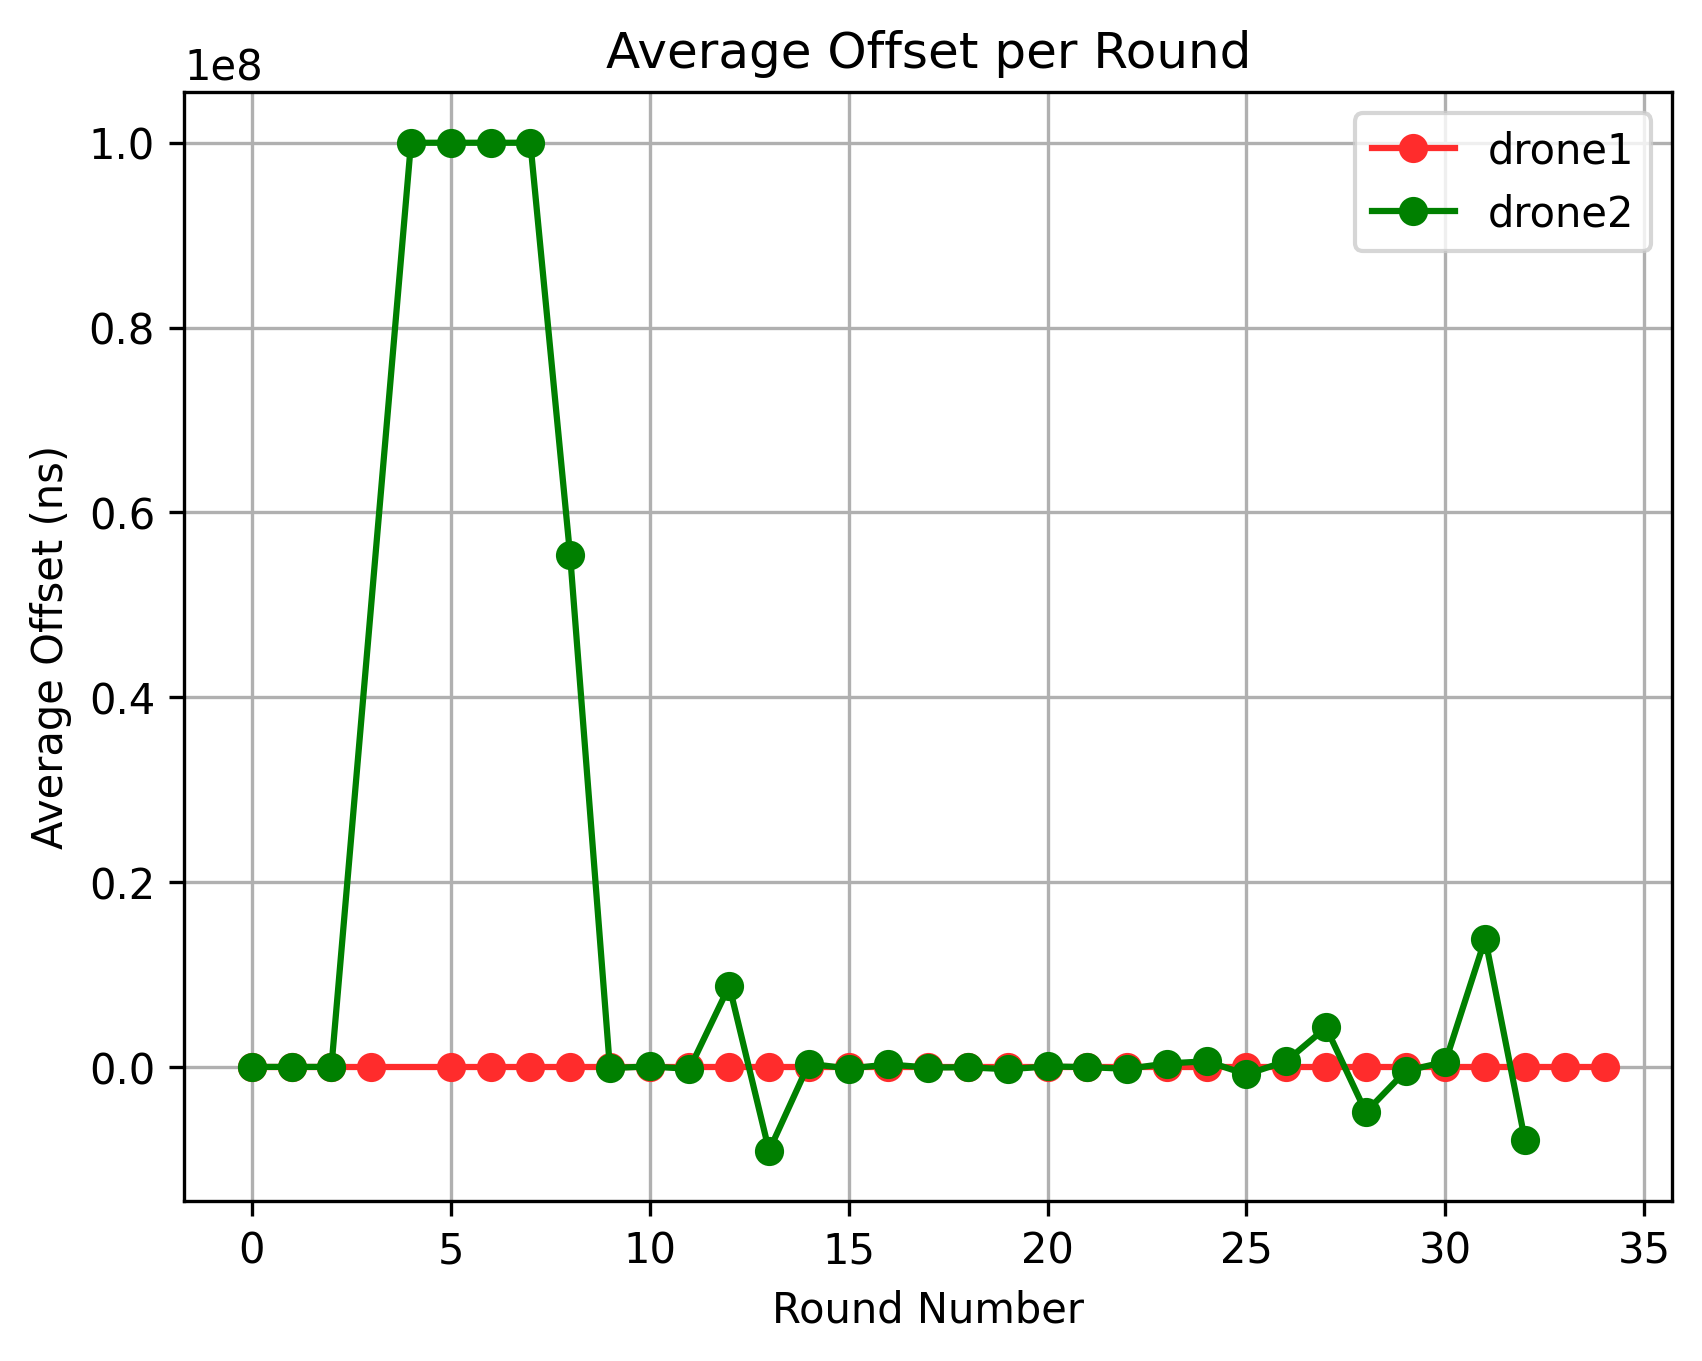
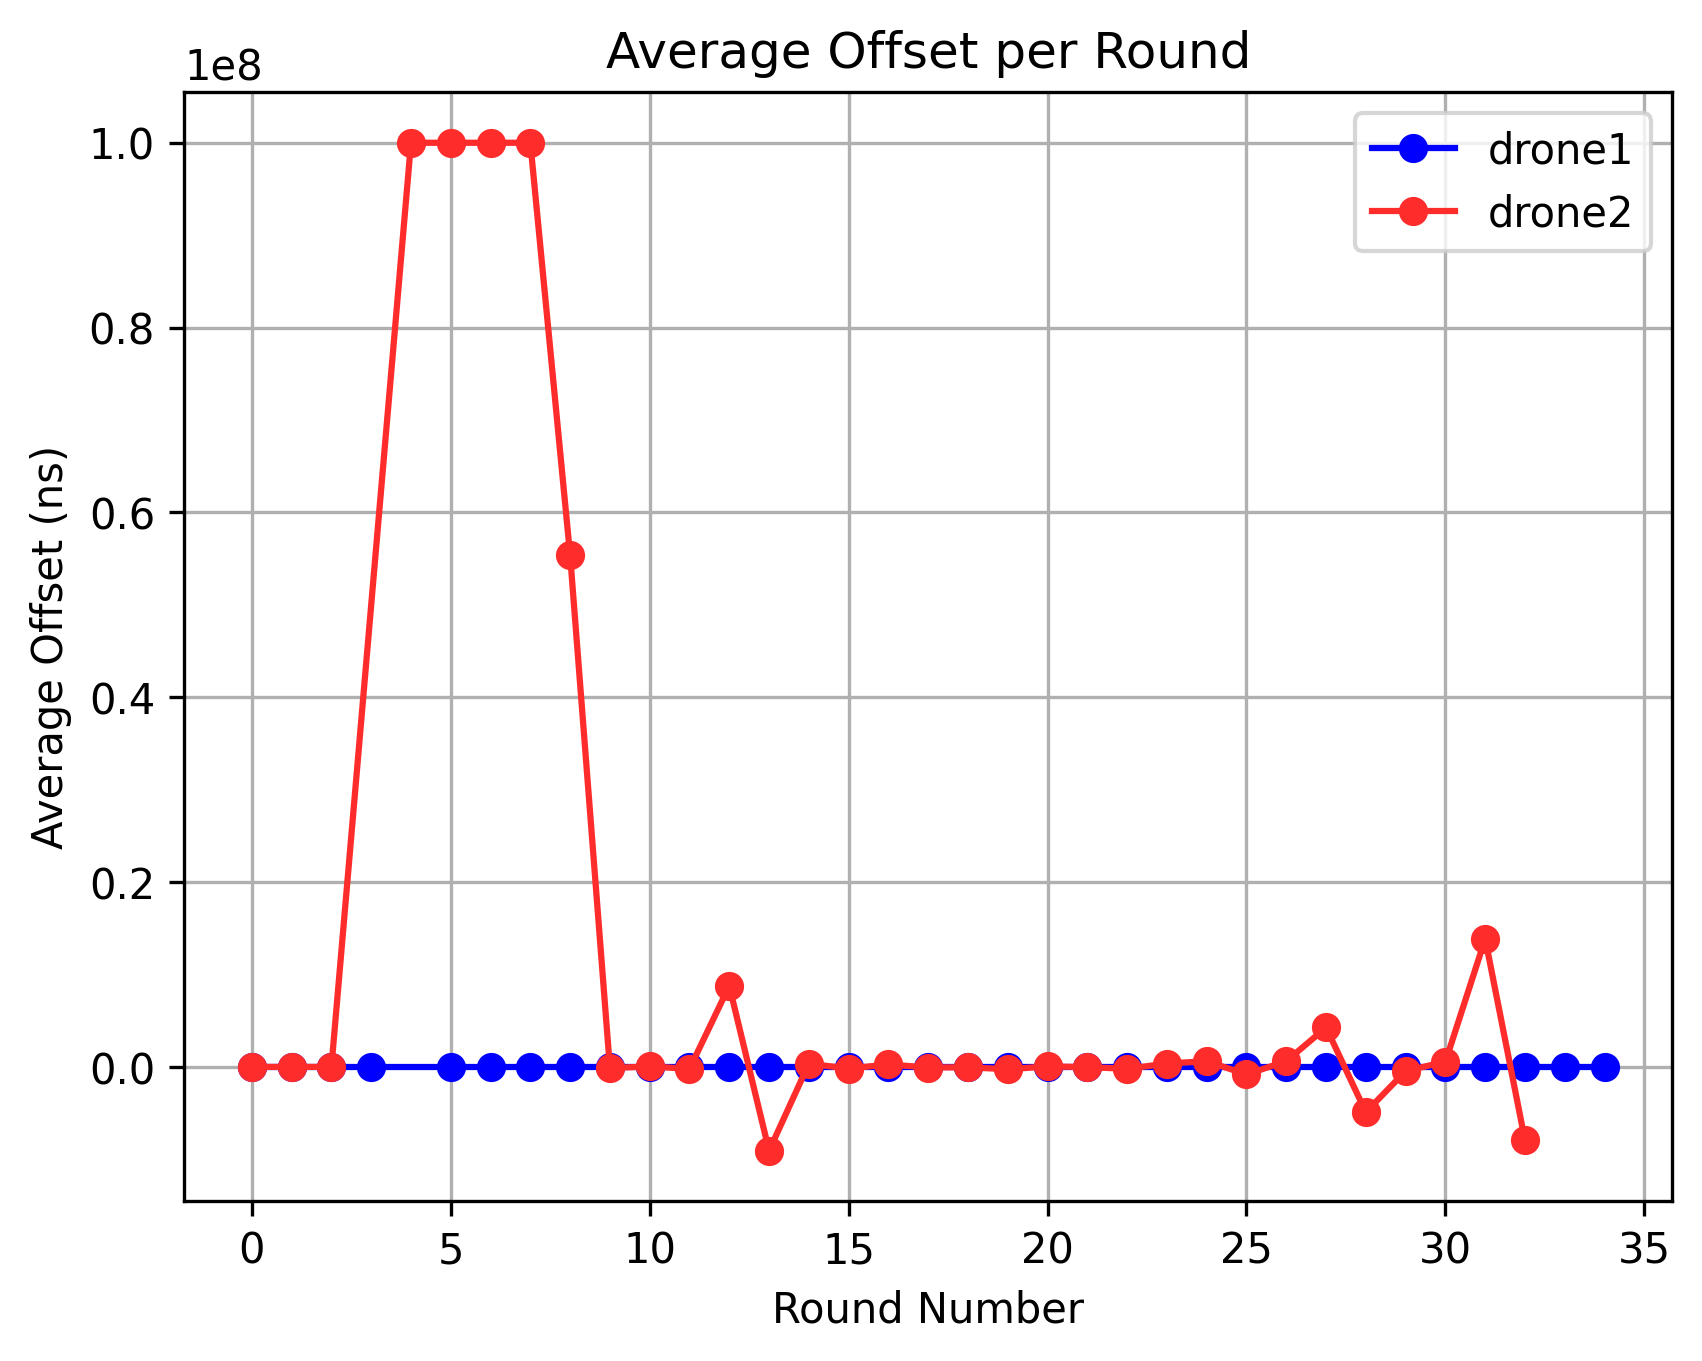
Added total offset chart

Changed region(s): [[0.1246, 0.4629, 0.9653, 0.8641], [0.218, 0.0926, 0.3425, 0.5246], [0.8096, 0.0926, 0.8408, 0.1852]]

diff --git a/docs/logs/generateReport.py b/docs/logs/generateReport.py
@@ -135,12 +135,14 @@ def read_data(node_name):
     '''
 def build_average_offset_chart(data):
     
+    plt.clf()
+
     for node_name in data.keys():
         
         x = data[node_name]['average_offset_x']
         y = data[node_name]['average_offset_y']
 
-        plt.plot(x, y, marker='o', linestyle='-', color=node_colors[int(node_name.split('drone')[1])], label = node_name)
+        plt.plot(x, y, marker='o', linestyle='-', color=node_colors[int(node_name.split('drone')[1]) - 1], label = node_name)
     
     plt.xlabel("Round Number")
     plt.ylabel("Average Offset (ns)")
@@ -152,7 +154,23 @@ def build_average_offset_chart(data):
 
 
 def build_total_offset_chart(data):
-    return
+    
+    plt.clf()
+
+    for node_name in data.keys():
+
+        x = data[node_name]['total_offset_x']
+        y = data[node_name]['total_offset_y']
+
+        plt.plot(x, y, marker='o', linestyle='-', color=node_colors[int(node_name.split('drone')[1]) - 1], label = node_name)
+    
+    plt.xlabel("Round Number")
+    plt.ylabel("Total Offset (ns)")
+    plt.title("Total Offset per Round")
+    plt.legend()
+    plt.grid(True)
+
+    plt.savefig("./" + TEST_NAME + "/" + TEST_TYPE + "/total-offset.png", dpi=300, bbox_inches='tight')
 
 def build_charts():
 
@@ -165,6 +183,8 @@ def build_charts():
 
         node_data['average_offset_x'] = list()
         node_data['average_offset_y'] = list()
+        node_data['total_offset_x'] = list()
+        node_data['total_offset_y'] = list()
     
         for key in round_data.keys():
             
@@ -174,6 +194,9 @@ def build_charts():
                 node_data['average_offset_x'].append(key)
                 node_data['average_offset_y'].append(current_round_data['OFFSET'])
 
+            if 'TOTAL_OFFSET' in current_round_data.keys():
+                node_data['total_offset_x'].append(key)
+                node_data['total_offset_y'].append(current_round_data['TOTAL_OFFSET'])
     
     build_average_offset_chart(data)
     build_total_offset_chart(data)
